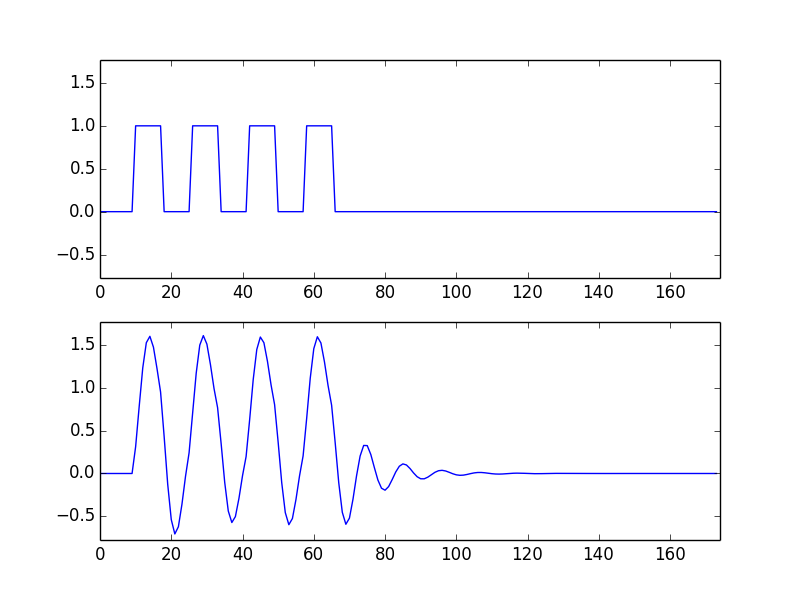
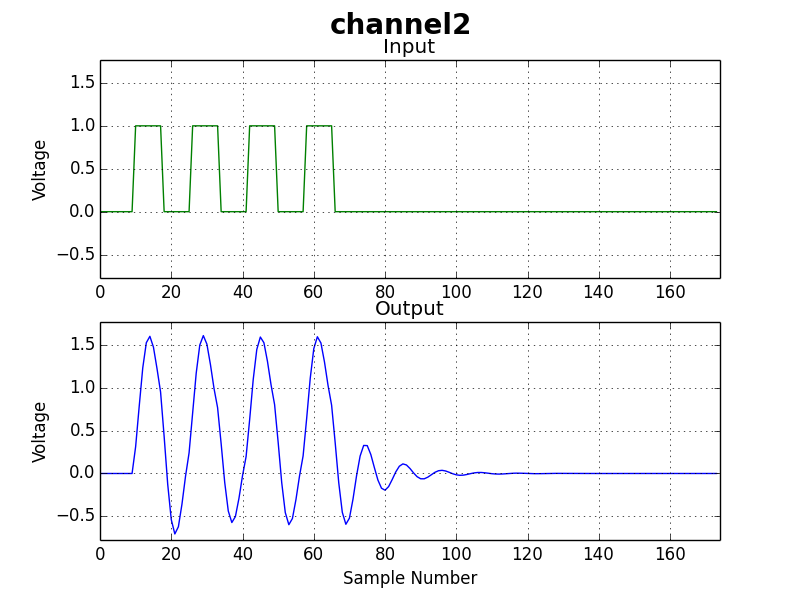
Completed task 2

diff --git a/SWE001/6.02s2009/labs/lab2/lab2_2.py b/SWE001/6.02s2009/labs/lab2/lab2_2.py
@@ -20,14 +20,24 @@ def test_channel(channel):
     lower = min(min(inp),min(out))
     upper = upper + abs(upper)*0.1		# leave some space at the edges, unless that edge is 0
     lower = lower - abs(lower)*0.1
+    
+    p.figure()
+    p.suptitle(name,fontsize=20,fontweight='bold')
     p.subplot(211)
     p.axis([0,len(inp),lower,upper])	# custom axis scaling
-    p.plot(inp)
+    p.plot(inp,'g-')
+    p.title('Input')
+    p.grid(True)
+    p.ylabel('Voltage')
     p.subplot(212)
     p.axis([0,len(inp),lower,upper])	# make the axes the same
-    p.plot(out)
+    p.plot(out,'b-')
+    p.title('Output')
+    p.grid(True)
+    p.ylabel('Voltage')
+    p.xlabel('Sample Number')
     p.savefig(name+'.png')
-    p.clf()
+    p.clf()								# clears the figure so we can start blank again
 
 if __name__ == '__main__':
     # try out our two channels
